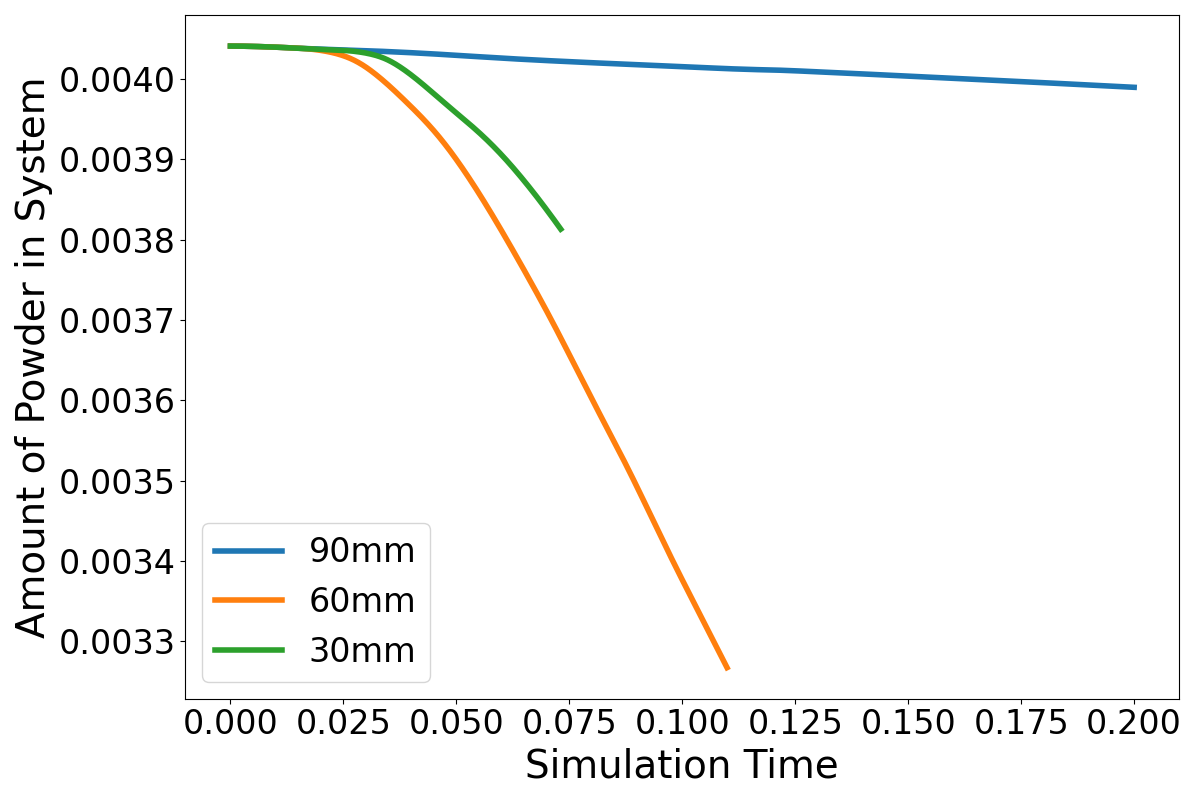
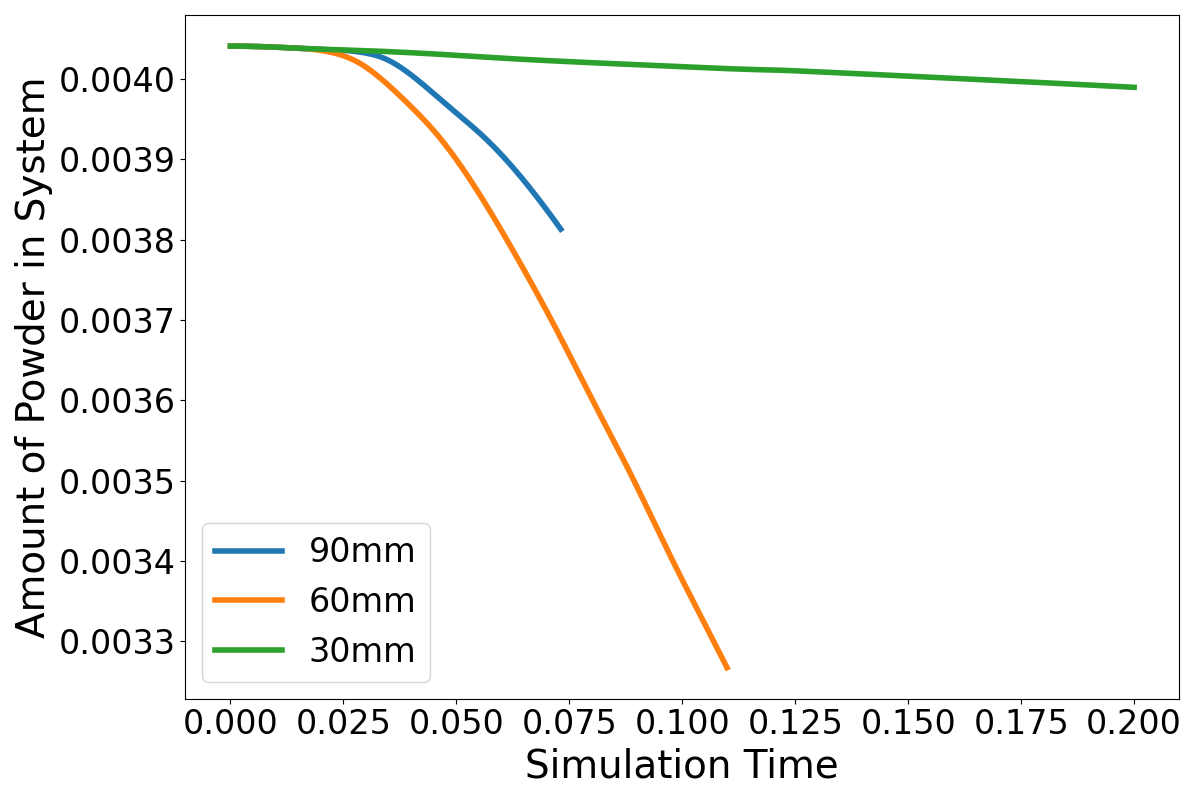
save

diff --git a/latex/appendix.tex b/latex/appendix.tex
@@ -1,8 +1,48 @@
 \chapter{Comparative Analysis of Powder Feed Architectures}
 
-appendix\label{appendix:feed-architecture-analysis}
+\begin{figure}[htbp]
+    \centering
 
-\chapter{Unprocessed Ansys Fluent Images}\label{sec:unprocessed-images}
+    \begin{minipage}{0.5\textwidth}
+        \centering
+        \includegraphics[width=\textwidth]{../report_assets/table_comp_1_1.png}
+        \caption{(a) Start}
+    \end{minipage}
+    \begin{minipage}{0.5\textwidth}
+        \centering
+        \includegraphics[width=\textwidth]{../report_assets/table_comp_1_2.png}
+        \caption{(b) Middle}
+    \end{minipage}
+    \begin{minipage}{0.5\textwidth}
+        \centering
+        \includegraphics[width=\textwidth]{../report_assets/table_comp_1_3.png}
+        \caption{(c) End}
+    \end{minipage}
+    \caption{Comparison of Suitability of Design Paradigm Unedited}
+\end{figure}
+
+\begin{figure}[htbp]
+    \centering
+
+    \begin{minipage}{0.5\textwidth}
+        \centering
+        \includegraphics[width=\textwidth]{../report_assets/table_comp_1_1.png}
+        \caption{(a) Start}
+    \end{minipage}
+    \begin{minipage}{0.5\textwidth}
+        \centering
+        \includegraphics[width=\textwidth]{../report_assets/table_comp_1_2.png}
+        \caption{(b) Middle}
+    \end{minipage}
+    \begin{minipage}{0.5\textwidth}
+        \centering
+        \includegraphics[width=\textwidth]{../report_assets/table_comp_1_3.png}
+        \caption{(c) End}
+    \end{minipage}
+    \caption{Comparison of Difficulty of Edits Required}
+\end{figure}
+
+\chapter{Unprocessed Numerical Simulation Images}\label{sec:unprocessed-images}
 As the images in \autoref{sec:prev-design-analysis} are heavily processed, the unprocessed ones are provided here for clarity.
 \begin{figure}[htbp]
     \centering
@@ -10,13 +50,50 @@ As the images in \autoref{sec:prev-design-analysis} are heavily processed, the u
     \begin{minipage}{0.45\textwidth}
         \centering
         \includegraphics[width=\textwidth]{../report_assets/grav.png}
-        \caption*{(a) Old Design Under Gravity.}
+        \caption*{(a) Under Earth's Gravity}
     \end{minipage}
     \hfill
     \begin{minipage}{0.45\textwidth}
         \centering
         \includegraphics[width=\textwidth]{../report_assets/no_grav.png}
-        \caption*{(b) Old Design Under Microgravity}
+        \caption*{(b) Under Microgravity}
     \end{minipage}
-    \caption{Phase Density of Old Design Simulations}
+    \caption{Phase Density of Old Design after 2 Seconds}
 \end{figure}
+
+\begin{figure}[htbp]
+    \centering
+
+    \begin{minipage}{0.45\textwidth}
+        \centering
+        \includegraphics[width=\textwidth]{../report_assets/unprocessed_fea_fine.png}
+        \caption*{(a) Fine Mesh}
+    \end{minipage}    
+    \hfill
+    \begin{minipage}{0.45\textwidth}
+        \centering
+        \includegraphics[width=\textwidth]{../report_assets/unprocessed_fea_coarse.png}
+        \caption*{(b) More Coarse Mesh}
+    \end{minipage}    
+    \caption{Results of Tank FEA}
+
+\end{figure}  
+
+\begin{figure}[htbp]
+    \centering
+
+    \begin{minipage}{0.8\textwidth}
+        \centering
+        \includegraphics[width=\textwidth]{../report_assets/unprovessed_stat_pres.png}
+        \caption{Static Pressure of Empty Tank Simulation}
+    \end{minipage}    
+\end{figure}  
+
+\begin{figure}[htbp]
+    \centering
+    \begin{minipage}{0.8\textwidth}
+        \centering
+        \includegraphics[width=\textwidth]{../report_assets/unprovessed_vel.jpeg}
+        \caption{Velocity Magnitude of Empty Tank Simulation}
+    \end{minipage}    
+\end{figure}  

diff --git a/latex/bin/main.tex b/latex/bin/main.tex
@@ -41,29 +41,30 @@
     \vspace{1cm} % Space between logo and the title
     \begin{center}
         {\huge \textbf{Design and Optimization of a Powder Feed System for In-Space Additive Manufacturing}}\\[1cm]
-        {\Large Jack Crane}\\[1cm]
-
-        \begin{minipage}{0.8\textwidth}
+        
+        \begin{minipage}{0.9\textwidth}
             \includegraphics[width=\linewidth]{../report_assets/cover_image.png}
         \end{minipage}
         \hfill
         
-        \vspace{1cm} % Space between logo and the title
-
-        Masters project thesis.\\
+        \vspace{0.8cm} % Space between logo and the title
 
         \begin{center}
             \renewcommand{\arraystretch}{1.5}
-            \hfill\begin{tabular}{p{0.45\textwidth} p{0.45\textwidth}}
-            \hfill\textbf{Academic Supervisors:} & Dr Ajit Panesar \\ 
-            \hfill\textbf{Department:}           & Department of Aeronautics \\
-            \hfill\textbf{Course:}               & MEng Aeronautics with Spacecraft Engineering \\
-            \hfill\textbf{Academic Year:}        & 2024/2025 \\
-            \hfill\textbf{Date:}                 & \today \\
+            \hfill\begin{tabular}{p{0.3\textwidth} p{0.6\textwidth}}
+                \textbf{Author:}\hfill               & \textbf{Jack Crane} \\ 
+                \textbf{Academic Supervisor:}\hfill  & Dr Ajit Panesar \\ 
+                \textbf{Second Marker:}\hfill        & Dr Demetrios Venetsanos \\ 
+                \textbf{Department:}\hfill           & Department of Aeronautics \\
+                \textbf{Course:}\hfill               & MEng Aeronautics with Spacecraft Engineering \\
+                \textbf{Academic Year:}\hfill        & 2024/2025 \\
+                \textbf{Date:}\hfill                 & \today \\
             \end{tabular}
         \end{center}
-            
         
+        \vspace{0.5cm} % Space between logo and the title
+        A Thesis submitted in fulfillment of requirements for the degree of \\
+        Master of Engineering in Aeronautics with Spacecraft Engineering
     \end{center}
 \end{titlepage}
 

diff --git a/latex/results.tex b/latex/results.tex
@@ -184,7 +184,8 @@ In the 0.1m of pipe, the flow has already accelerated to 275m/s which supports t
 Given the unreliability of the pressure gauge, a number of assumptions were made to determine the stagnation pressure and allow for analysis of mass flow rate against pressure. Assuming that the flow was choked within the tubes, having a velocity of 343m/s, the isentropic relations give that p/p0 =  0.52828178
 \begin{table}[htbp]
     \centering
-    \begin{tabular}{|c|c|c|}
+    
+    \begin{tabular}{p{0.3\textwidth} p{0.3\textwidth} p{0.3\textwidth}}
         \hline
         Pressure Regulator Setting (bar) & Static Pressure at Inlet (bar) &  Stagnation Pressure (bar) \\
         \hline

diff --git a/Research_Files/May/piston_const_vel.py b/Research_Files/May/piston_const_vel.py
@@ -6,9 +6,9 @@ import matplotlib.pyplot as plt
 # input_file2 = 'Research_Files/June/60mm_wide_wide.out'
 # input_file3 = 'Research_Files/June/30mm_wide_wide.out'
 
-input_file1 = 'Research_Files/June/30mm_grav.out'
+input_file1 = 'Research_Files/June/90mm_grav.out'
 input_file2 = 'Research_Files/June/60mm_grav_initial.out'
-input_file3 = 'Research_Files/June/90mm_grav.out'
+input_file3 = 'Research_Files/June/30mm_grav.out'
 def read_fluent_out(path):
     data = []
     with open(path, 'r') as f:
